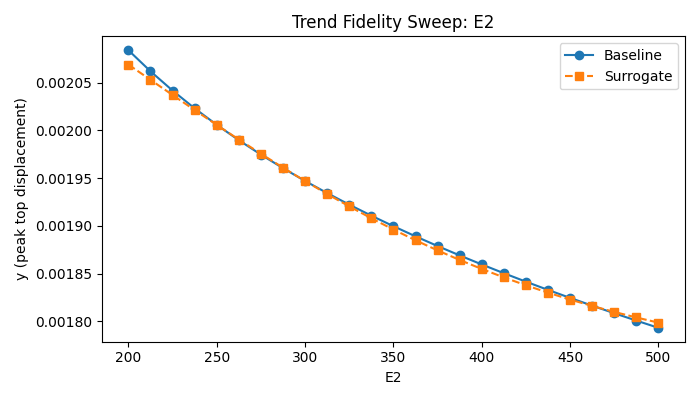
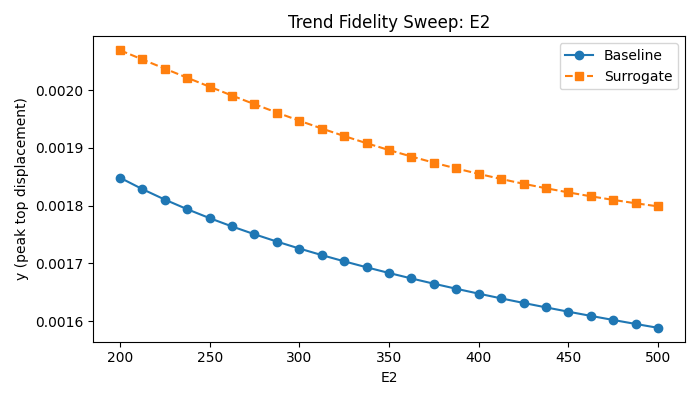
Sync surrogate workflow from baseline-surrogate

diff --git a/surrogate_workflow/diagnostics_phase1.py b/surrogate_workflow/diagnostics_phase1.py
@@ -9,6 +9,9 @@ from contextlib import redirect_stdout
 import numpy as np
 import torch
 
+if __package__ is None:
+    sys.path.append(os.path.abspath(os.path.join(os.path.dirname(__file__), "..")))
+
 from surrogate_workflow import config
 from surrogate_workflow import baseline
 from surrogate_workflow import data as data_utils
@@ -24,7 +27,9 @@ from solver.fem_solver import solve_fem  # noqa: E402
 
 DEFAULT_MESHES = [
     {"ne_x": 20, "ne_y": 20, "ne_z": 6},
+    {"ne_x": 30, "ne_y": 30, "ne_z": 9},
     {"ne_x": 40, "ne_y": 40, "ne_z": 12},
+    {"ne_x": 50, "ne_y": 50, "ne_z": 15},
 ]
 
 
@@ -35,6 +40,25 @@ def _report(lines, message):
 
 def _format_mesh(mesh):
     return f"{mesh['ne_x']}x{mesh['ne_y']}x{mesh['ne_z']}"
+
+
+def _mesh_elements(mesh):
+    return mesh["ne_x"] * mesh["ne_y"] * mesh["ne_z"]
+
+
+def _interp_top_surface(x_ref, y_ref, uz_ref, x, y):
+    x_ref = np.asarray(x_ref, dtype=float)
+    y_ref = np.asarray(y_ref, dtype=float)
+    x = np.asarray(x, dtype=float)
+    y = np.asarray(y, dtype=float)
+    # Bilinear interpolation via sequential 1D passes.
+    interp_x = np.empty((x.shape[0], y_ref.shape[0]))
+    for j in range(y_ref.shape[0]):
+        interp_x[:, j] = np.interp(x, x_ref, uz_ref[:, j])
+    interp_xy = np.empty((x.shape[0], y.shape[0]))
+    for i in range(x.shape[0]):
+        interp_xy[i, :] = np.interp(y, y_ref, interp_x[i, :])
+    return interp_xy
 
 
 def _call_with_output(lines, func, *args, **kwargs):
@@ -91,14 +115,63 @@ def mesh_sweep(lines, meshes):
         x, y, z, u_grid = _call_with_output(lines, solve_fem, cfg_mesh)
         uz_top = u_grid[:, :, -1, 2]
         peak = float(-np.min(uz_top))
-        results.append((mesh, peak))
+        results.append({
+            "mesh": mesh,
+            "x": x,
+            "y": y,
+            "uz_top": uz_top,
+            "peak": peak,
+        })
         _report(lines, f"  peak top |u_z| = {peak:.6e}")
 
-    for i in range(1, len(results)):
-        prev = results[i - 1][1]
-        curr = results[i][1]
+    ordered = sorted(results, key=lambda item: _mesh_elements(item["mesh"]))
+    for i in range(1, len(ordered)):
+        prev = ordered[i - 1]["peak"]
+        curr = ordered[i]["peak"]
         rel = abs(curr - prev) / max(prev, 1e-12)
-        _report(lines, f"  rel change {_format_mesh(results[i-1][0])} -> {_format_mesh(results[i][0])}: {rel:.2%}")
+        _report(lines, f"  rel change {_format_mesh(ordered[i-1]['mesh'])} -> {_format_mesh(ordered[i]['mesh'])}: {rel:.2%}")
+
+    if ordered:
+        ref = ordered[-1]
+        ref_peak = ref["peak"]
+        _report(lines, "Mesh convergence (errors vs finest resolution)")
+        _report(lines, "  (sorted by element count; errors normalized by reference norms)")
+        _report(lines, f"Reference mesh: {_format_mesh(ref['mesh'])}")
+        rel_peak_errors = []
+        rel_l2_errors = []
+        for item in ordered:
+            if item is ref:
+                rel_peak = 0.0
+                rel_l2 = 0.0
+            else:
+                item_on_ref = _interp_top_surface(
+                    item["x"],
+                    item["y"],
+                    item["uz_top"],
+                    ref["x"],
+                    ref["y"],
+                )
+                diff = item_on_ref - ref["uz_top"]
+                rel_l2 = float(np.linalg.norm(diff) / max(np.linalg.norm(ref["uz_top"]), 1e-12))
+                item_peak = float(-np.min(item_on_ref))
+                rel_peak = abs(item_peak - ref_peak) / max(abs(ref_peak), 1e-12)
+            rel_peak_errors.append(rel_peak)
+            rel_l2_errors.append(rel_l2)
+            _report(
+                lines,
+                f"  {_format_mesh(item['mesh'])}: peak rel err {rel_peak:.2%}, top-surface L2 rel err {rel_l2:.2%}",
+            )
+        for i in range(1, len(ordered)):
+            prev_peak = rel_peak_errors[i - 1]
+            curr_peak = rel_peak_errors[i]
+            prev_l2 = rel_l2_errors[i - 1]
+            curr_l2 = rel_l2_errors[i]
+            peak_red = (prev_peak - curr_peak) / max(prev_peak, 1e-12)
+            l2_red = (prev_l2 - curr_l2) / max(prev_l2, 1e-12)
+            _report(
+                lines,
+                f"  error reduction {_format_mesh(ordered[i-1]['mesh'])} -> {_format_mesh(ordered[i]['mesh'])}: peak {peak_red:.2%}, L2 {l2_red:.2%}",
+            )
     _report(lines, "")
 
 

diff --git a/surrogate_workflow/data.py b/surrogate_workflow/data.py
@@ -55,11 +55,25 @@ def split_indices(n_samples, train_frac, val_frac, seed):
 
 def generate_dataset():
     x_raw = sample_designs(config.N_SAMPLES, config.DESIGN_RANGES, config.SEED)
-    y_raw = np.zeros(config.N_SAMPLES, dtype=float)
+    if getattr(config, "TREND_ANCHOR_POINTS", 0) > 0:
+        param_names = list(config.DESIGN_RANGES.keys())
+        if config.TREND_SWEEP_PARAM in param_names:
+            ranges = config.DESIGN_RANGES
+            sweep = np.linspace(
+                ranges[config.TREND_SWEEP_PARAM][0],
+                ranges[config.TREND_SWEEP_PARAM][1],
+                config.TREND_ANCHOR_POINTS,
+            )
+            mu_mid = np.array([(ranges[name][0] + ranges[name][1]) * 0.5 for name in param_names])
+            idx = param_names.index(config.TREND_SWEEP_PARAM)
+            anchors = np.tile(mu_mid, (config.TREND_ANCHOR_POINTS, 1))
+            anchors[:, idx] = sweep
+            x_raw = np.vstack([x_raw, anchors])
+    y_raw = np.zeros(x_raw.shape[0], dtype=float)
     for i, mu in enumerate(x_raw):
         y_raw[i] = baseline.compute_response(mu)
         if (i + 1) % 10 == 0 or i == 0:
-            print(f"Baseline {i + 1}/{config.N_SAMPLES}: y={y_raw[i]:.6f}")
+            print(f"Baseline {i + 1}/{x_raw.shape[0]}: y={y_raw[i]:.6f}")
     x_norm, x_min, x_max = normalize_inputs(x_raw, config.DESIGN_RANGES)
     y_norm, y_min, y_max = normalize_outputs(y_raw)
     return {

diff --git a/surrogate_workflow/config.py b/surrogate_workflow/config.py
@@ -56,3 +56,4 @@ MIN_DELTA = 1e-5
 TREND_SWEEP_PARAM = "E2"
 TREND_SWEEP_POINTS = 25
 OPT_CANDIDATES = 1000
+TREND_ANCHOR_POINTS = 25

diff --git a/surrogate_workflow/README.md b/surrogate_workflow/README.md
@@ -32,6 +32,9 @@ Run the diagnostic checklist (PDE summary, mesh sweep, surrogate validation):
 python surrogate_workflow/diagnostics_phase1.py
 ```
 
+By default, the mesh sweep runs 4 resolutions (20x20x6, 30x30x9, 40x40x12, 50x50x15)
+and reports normalized errors vs the finest mesh.
+
 You can override meshes:
 
 ```bash
